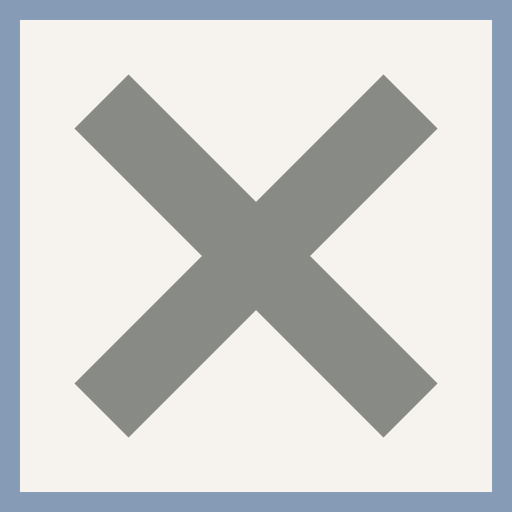
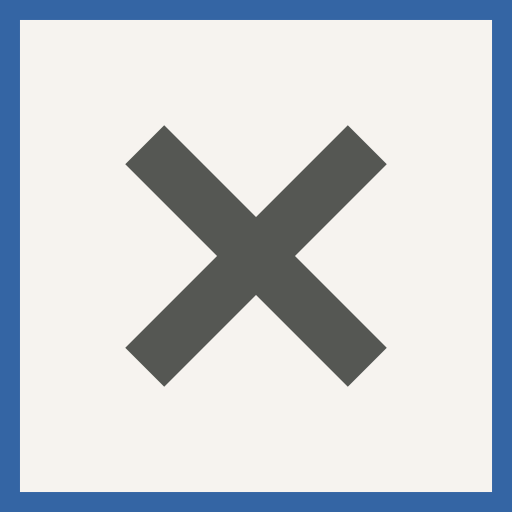
update

diff --git a/main/install.html b/main/install.html
@@ -122,12 +122,12 @@ install, download, website, PWA, WebApp, app, page, main,
 
 <div class="wrapperL tCenter">
 
-<button class="post padding2 margin2 borderList" onclick="startInstallPWA()"><span class="bold">Start Install (19,63 MB) - 1 first step</span>
+<button class="post padding2 margin2 borderList" onclick="startInstallPWA()"><span class="bold">Start Install (19,62 MB) - 1 first step</span>
 
 <span class="small block padding2">registration sw.js (service worker) and adding files to the cache.</span></button>
 
 <div id="startInstallStatus" class="post padding2 margin2 borderList"></div>
-<button class="add-button post padding2 margin2 borderList bold green" onclick="startInstallPWA()">Install (19,63 MB) - 2. second step</button>
+<button class="add-button post padding2 margin2 borderList bold green" onclick="startInstallPWA()">Install (19,62 MB) - 2. second step</button>
 
 
 

diff --git a/sw.js b/sw.js
@@ -167,7 +167,6 @@ var fileListArr = ["/404.html",
 "/chrome-extensions/stop-loading-website-7/options.js",
 "/chrome-extensions/stop-loading-website-7/screenshot.png",
 "/chrome-extensions/stop-loading-website-7/script.js",
-"/chrome-extensions/stop-loading-website-7/stop-loading-website-7.zip",
 "/chrome-extensions/stop-loading-website-7/style.css",
 "/chrome-extensions/url-redirect-6/README.md",
 "/chrome-extensions/url-redirect-6/",

diff --git a/css/main.css b/css/main.css
@@ -7,7 +7,7 @@ Mini CSS framework: main.css + auto.css (auto light dark theme) */
 
 :root{
 /* .brand - link, accent color (red, orange, yellow, green, blue, indigo, violet) */
---brandColor: color-mix(in srgb, var(--indigo) 80%, var(--green));
+--brandColor: color-mix(in srgb, var(--blue) 80%, var(--indigo));
 
 --bodyPadding: 3vw;
 --inputHeight: 45px;

diff --git a/chrome-extensions/stop-loading-website-7/README.md b/chrome-extensions/stop-loading-website-7/README.md
@@ -1,5 +1,3 @@
 
 
-Partially blocks the website, or rather its loading.
-
 Stop loading the site from the specified list of sites in the extension settings. The extension works based on how the browser's stop button works. 

diff --git a/firefox-extensions/stop-loading-website-7/README.md b/firefox-extensions/stop-loading-website-7/README.md
@@ -1,5 +1,3 @@
 
 
-Partially blocks the website, or rather its loading.
-
 Stop loading the site from the specified list of sites in the extension settings. The extension works based on how the browser's stop button works. 
